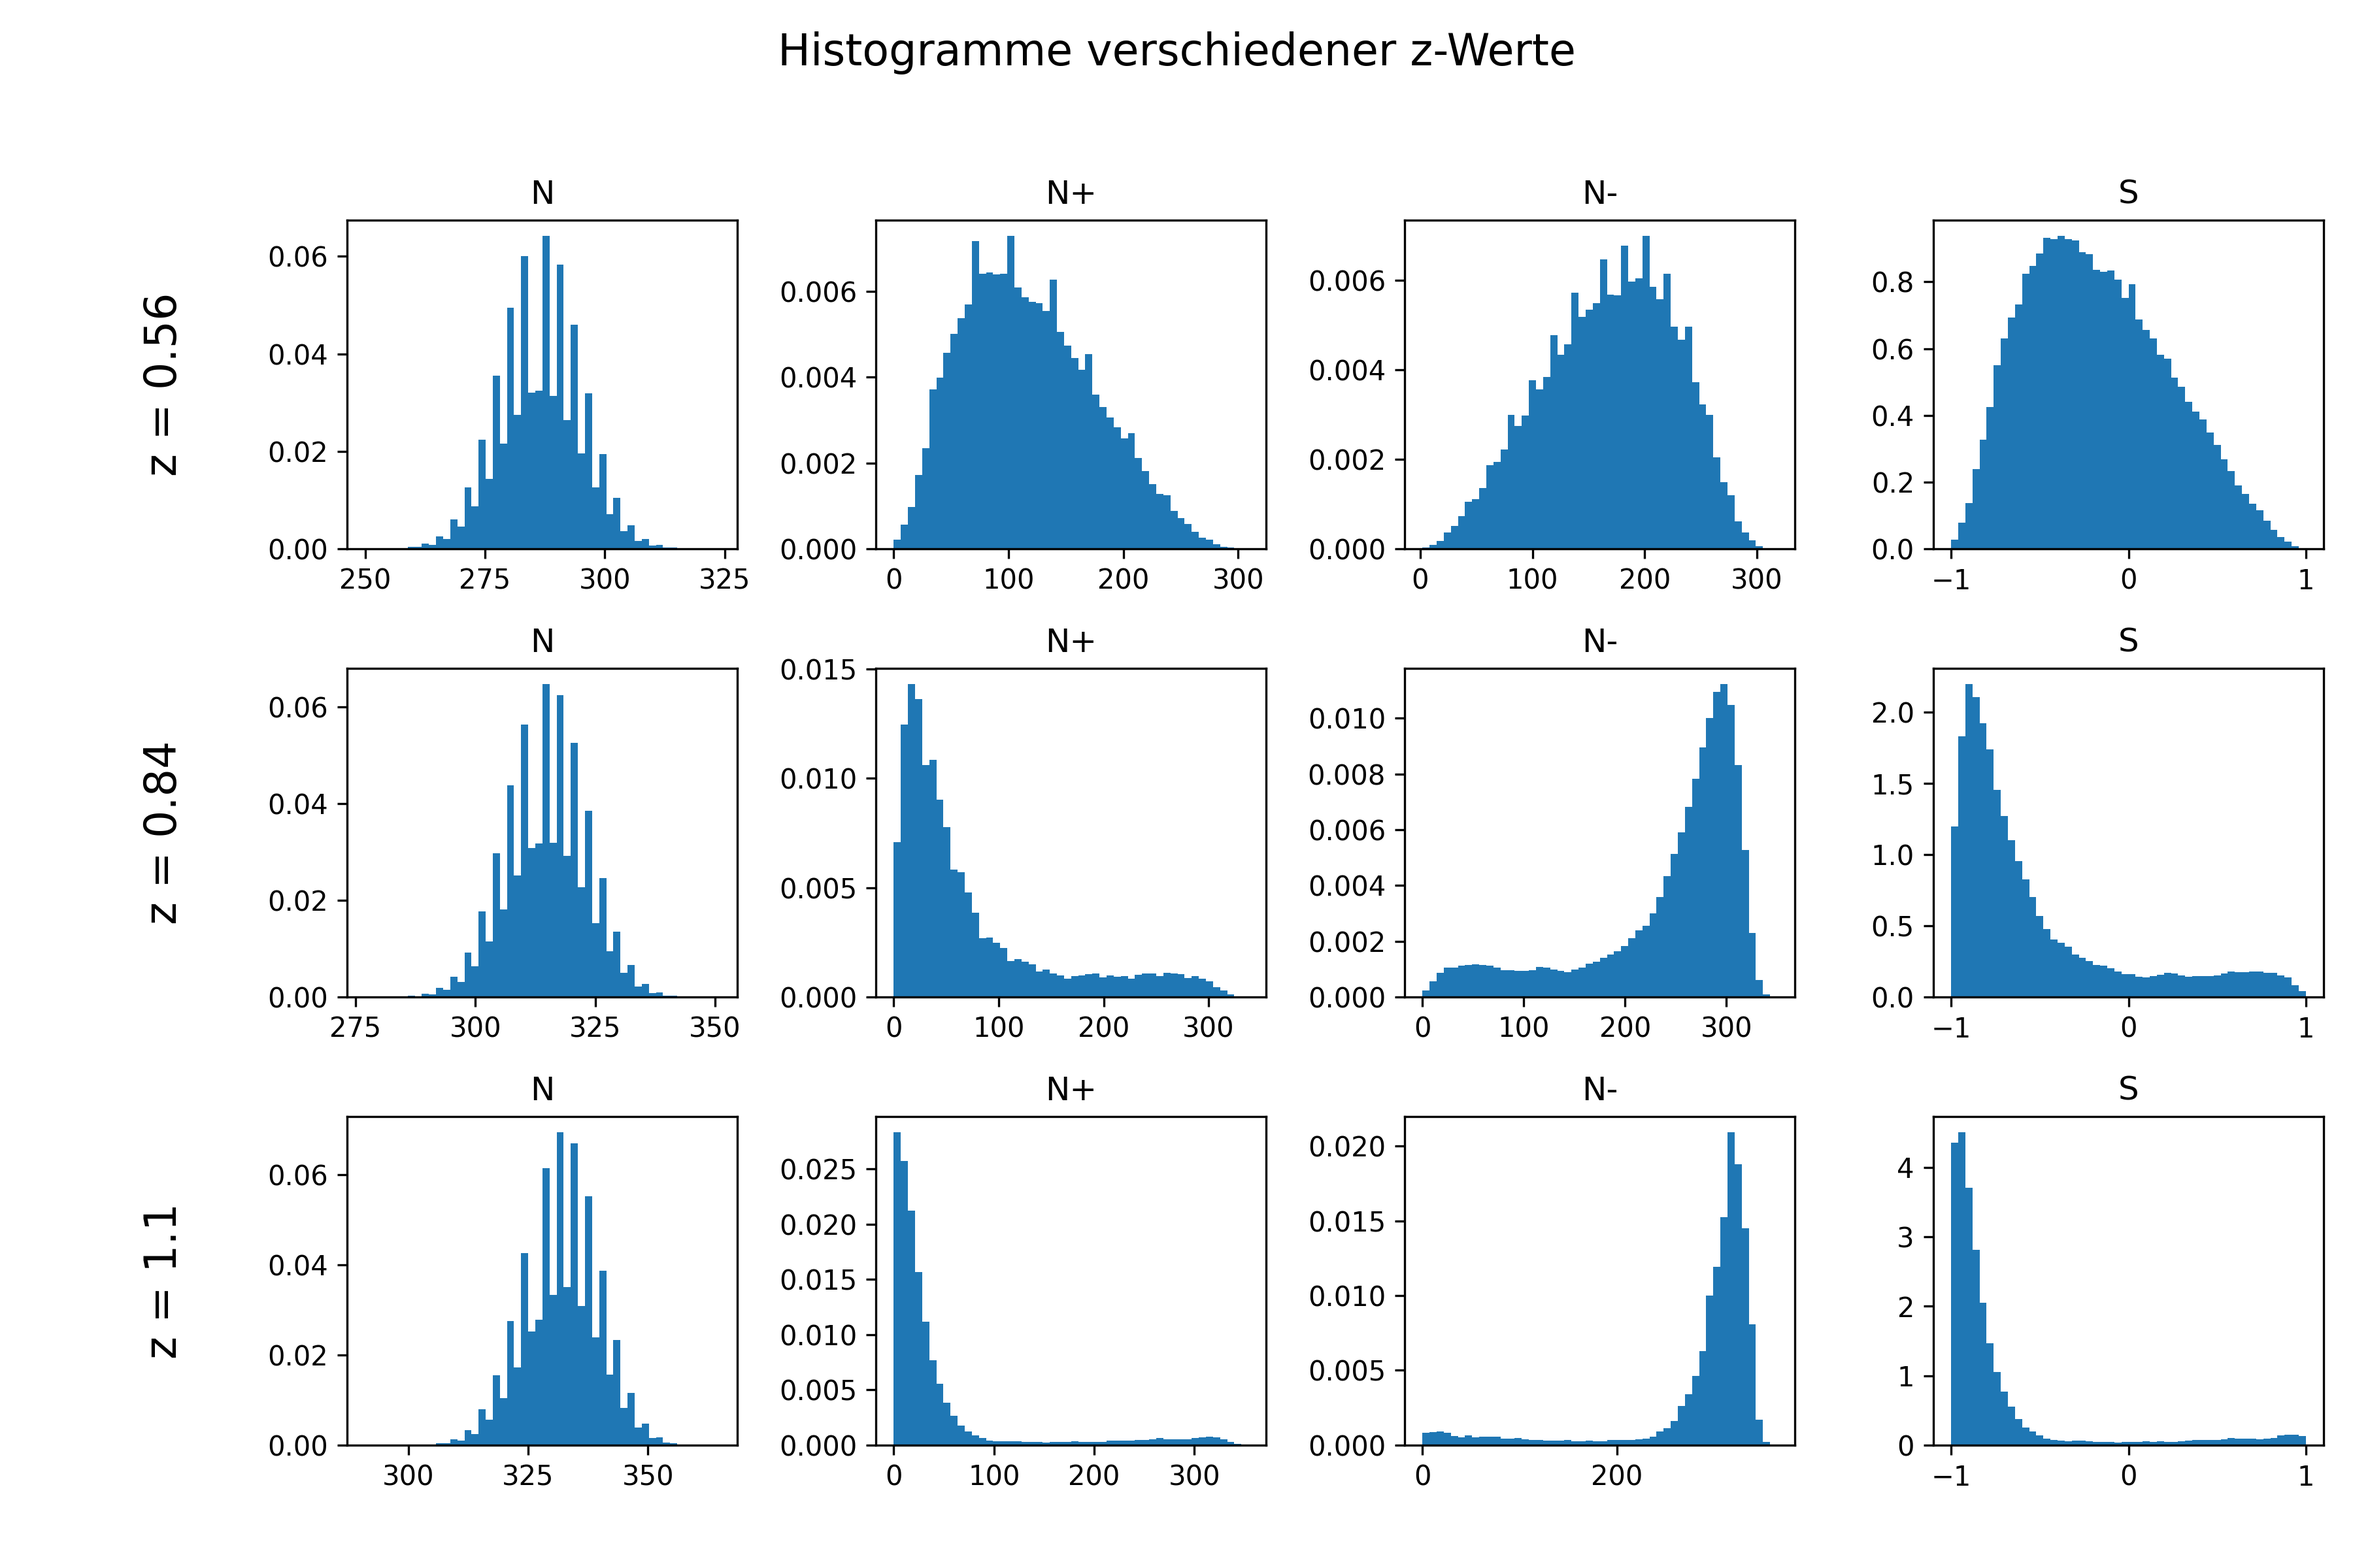
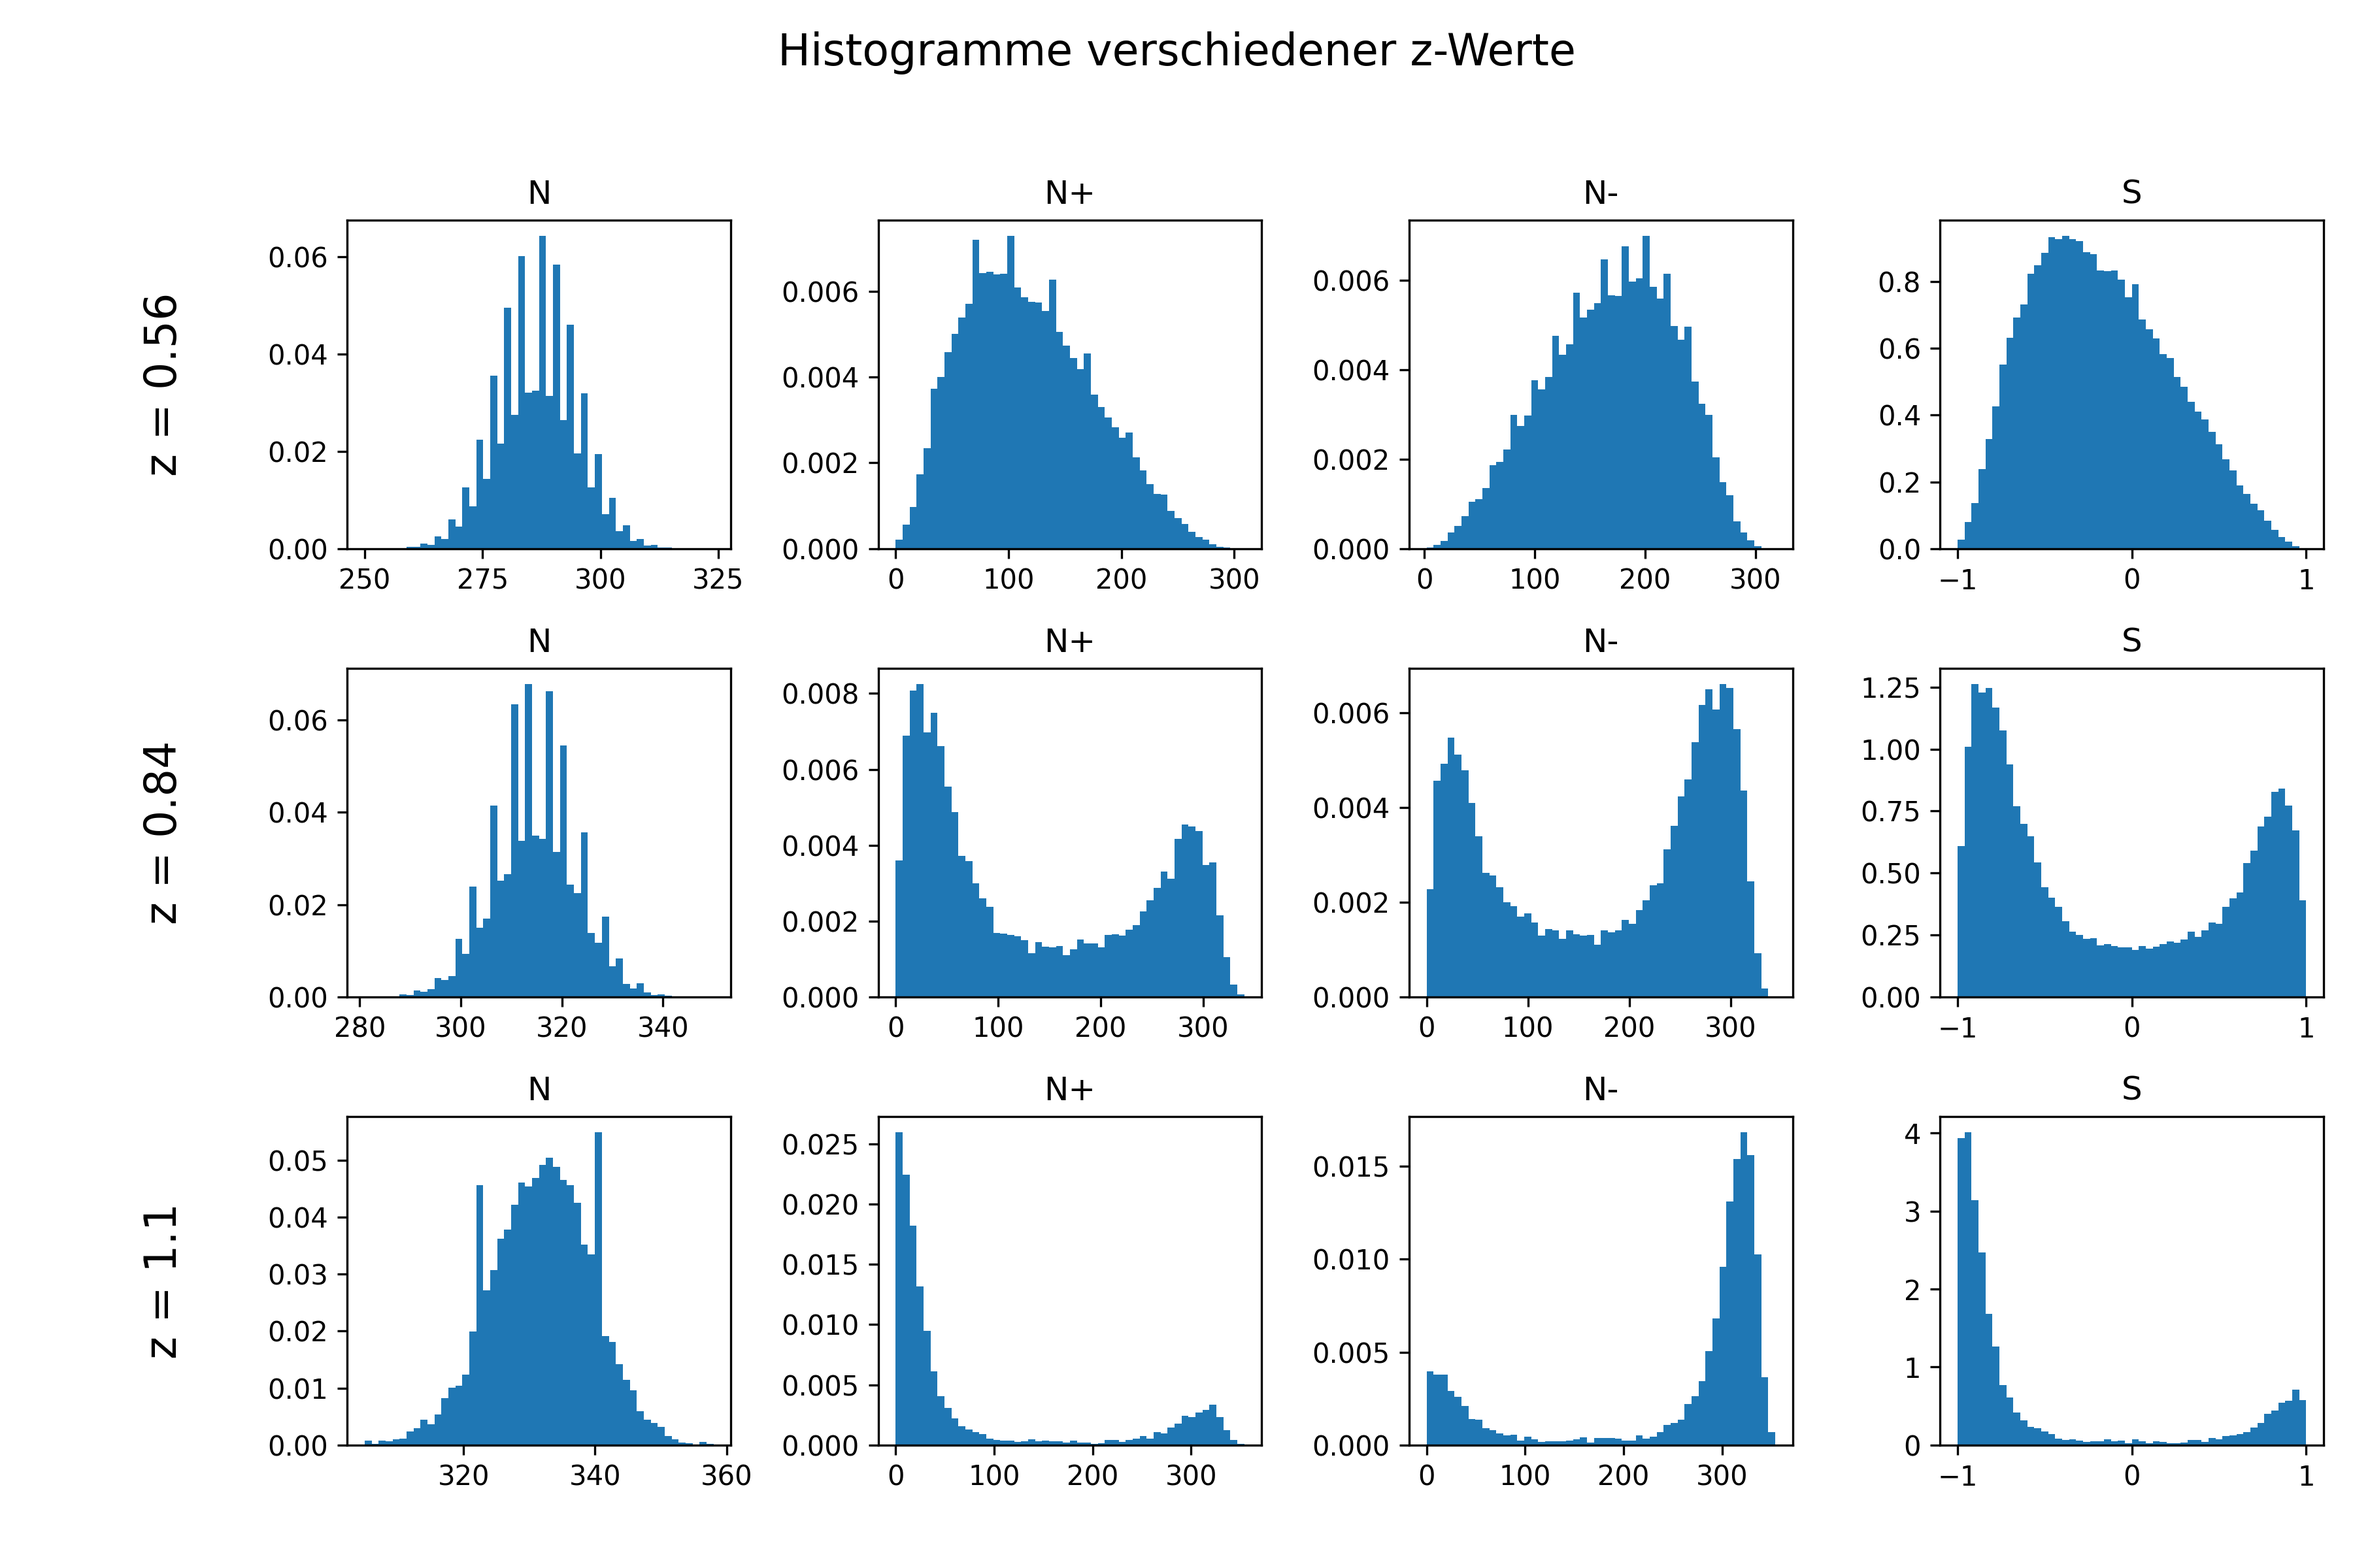
small adjustments, including longer runtime

diff --git a/06-stiff_rods/code/data/density.py b/06-stiff_rods/code/data/density.py
@@ -7,19 +7,19 @@ M = 64
 L = 8           
 
 dateien = {
-    0.05:  "./code/data/activity_005.csv",
-    0.125: "./code/data/activity_0125.csv",
-    0.25:  "./code/data/activity_025.csv",
-    0.56:  "./code/data/activity_056.csv",
-    0.84:  "./code/data/activity_084.csv",
-    1.10:  "./code/data/activity_11.csv",
-    1.15:  "./code/data/activity_115.csv",
-    1.50:  "./code/data/activity_15.csv",
+    0.05:  "./code/data/activity_005_new.csv",
+    0.125: "./code/data/activity_0125_new.csv",
+    0.25:  "./code/data/activity_025_new.csv",
+    0.56:  "./code/data/activity_056_new.csv",
+    0.84:  "./code/data/activity_084_new.csv",
+    1.10:  "./code/data/activity_11_new.csv",
+    1.15:  "./code/data/activity_115_new.csv",
+    1.50:  "./code/data/activity_15_new.csv",
 }
 
 
 # Anzahl der ersten Zeilen, die verworfen werden
-skip_rows = 100
+skip_rows = 3
 
 
 def standardfehler(x):
@@ -104,8 +104,8 @@ plt.figure(figsize=(8, 6))
 plt.errorbar(
     erg["eta_mean"],
     erg["absS_mean"],
-    xerr=erg["eta_std"],
-    yerr=erg["absS_std"],
+    xerr=erg["eta_sem"],
+    yerr=erg["absS_sem"],
     fmt="o",
     capsize=4
 )

diff --git a/06-stiff_rods/code/data/plotter.py b/06-stiff_rods/code/data/plotter.py
@@ -3,13 +3,13 @@ import pandas as pd
 import os
 
 headers = ['t','N', 'N+', 'N-'] 
-z = 0.56
-c = '056'
+z = 0.84
+c = '084'
 try:
-    data = pd.read_csv(f"./code/data/activity_{c}.csv",names=headers, skiprows=0, skipfooter=0, engine='python')
+    data = pd.read_csv(f"./code/data/test2_{c}.csv",names=headers, skiprows=0, skipfooter=0, engine='python')
     df = pd.DataFrame(data)
     df.plot(x='t', xlabel="Anzahl der Schritte", ylabel="Anzahl der Stäbchen", title=f"Thermalisierung mit z={z}", figsize=(8, 5))
-    plt.savefig(f"./code/data/plot{c}.png")
+    plt.savefig(f"./code/data/plot___{c}.png")
 except:
     print('you might be in the wrong wd, try executing in 06-stiff_rods.')
     print('you are currently in')

diff --git a/06-stiff_rods/code/data/histo.py b/06-stiff_rods/code/data/histo.py
@@ -3,8 +3,8 @@ import matplotlib.pyplot as plt
 
 dateien = {
     0.56: "./code/data/long_056.csv",
-    0.84: "./code/data/long_084.csv",
-    1.10: "./code/data/long_11.csv",
+    0.84: "./code/data/longest_084.csv",
+    1.10: "./code/data/longest_11.csv",
 }
 
 fig, axes = plt.subplots(nrows=3, ncols=4, figsize=(12, 8))
@@ -12,7 +12,7 @@ fig.suptitle("Histogramme verschiedener z-Werte", fontsize=16)
 
 for i, (z, datei) in enumerate(dateien.items()):
     df = pd.read_csv(datei, header=None, names=["step", "N", "N+", "N-"])
-    df = df.iloc[100:].copy() # skips first 100 lines for thermalisation
+    df = df.iloc[1000:].copy() # skips first 2e7 steps for thermalisation
 
     df["S"] = 0.0
     maske = df["N"] > 0
